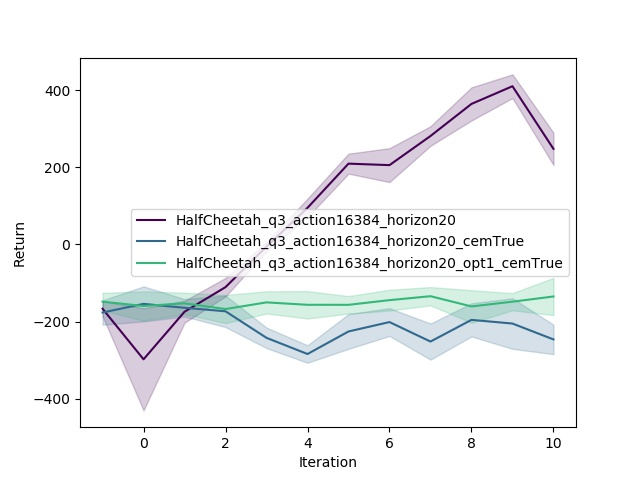
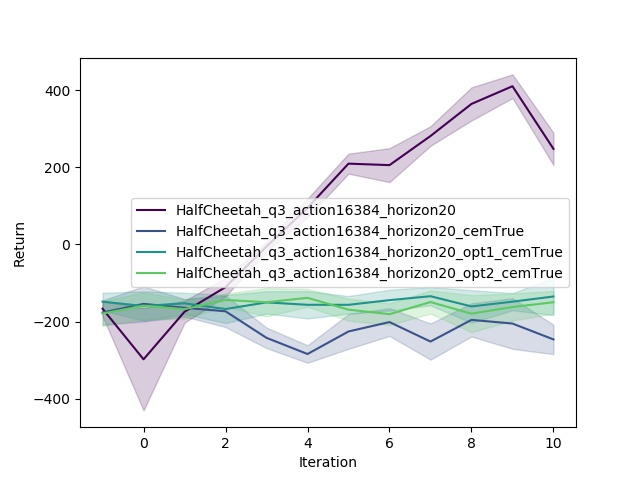
orlando - for finalizing of cem comparsion

Changed region(s): [[0.1562, 0.4062, 0.875, 0.6875]]

diff --git a/hw4/model_based_policy.py b/hw4/model_based_policy.py
@@ -275,7 +275,7 @@ class ModelBasedPolicy(object):
                 else:
                     cost_actions_decision += one_step_rewards
                 # use cross-entropy method to update action0_sequences, tf.math.top_k doesn't exist => tf.nn.top_k
-                top80_values, top80_indices = tf.nn.top_k(one_step_rewards, int(self._num_random_action_selection * 0.8))
+                top80_values, top80_indices = tf.nn.top_k(one_step_rewards, int(self._num_random_action_selection * 0.95))
                 current_action_sequences = tf.random_uniform([self._num_random_action_selection, self._action_dim], tf.minimum(self._action_space_low, top80_values[-1]), tf.maximum(self._action_space_high, top80_values[0]), tf.float32)
             best_action_index = tf.argmin(tf.convert_to_tensor(cost_actions_decision))
             best_action = tf.squeeze(tf.slice(action0_sequences, [best_action_index, 0], action_slice_size))

diff --git a/hw4/README.md b/hw4/README.md
@@ -183,9 +183,11 @@ About CEM, refer to [wiki defintion of Cross-entropy method](https://en.wikipedi
     ```bash
     # linear uniform for changing the boundary
     python main.py q3 --exp_name action16384_horizon20_cemTrue --num_random_action_selection 16384 --mpc_horizon 20 --use_cross_entropy True
-    # for optimization of next step
+    # option 1: 80% for optimization of next step
     python main.py q3 --exp_name action16384_horizon20_opt1_cemTrue --num_random_action_selection 16384 --mpc_horizon 20 --use_cross_entropy True
-    python plot.py --exps HalfCheetah_q3_action16384_horizon20 HalfCheetah_q3_action16384_horizon20_cemTrue HalfCheetah_q3_action16384_horizon20_opt1_cemTrue --save HalfCheetah_q3_cem
+    # option 2: 95% for optimization of next step
+    python main.py q3 --exp_name action16384_horizon20_opt2_cemTrue --num_random_action_selection 16384 --mpc_horizon 30 --use_cross_entropy True
+    python plot.py --exps HalfCheetah_q3_action16384_horizon20 HalfCheetah_q3_action16384_horizon20_cemTrue HalfCheetah_q3_action16384_horizon20_opt1_cemTrue HalfCheetah_q3_action16384_horizon20_opt2_cemTrue --save HalfCheetah_q3_cem
     ```
 **result**:     
 1. "python main.py q3 --exp_name action16384_horizon20 --num_random_action_selection 16384 --mpc_horizon 20" result in HalfCheetah_q3_action16384_horizon20
